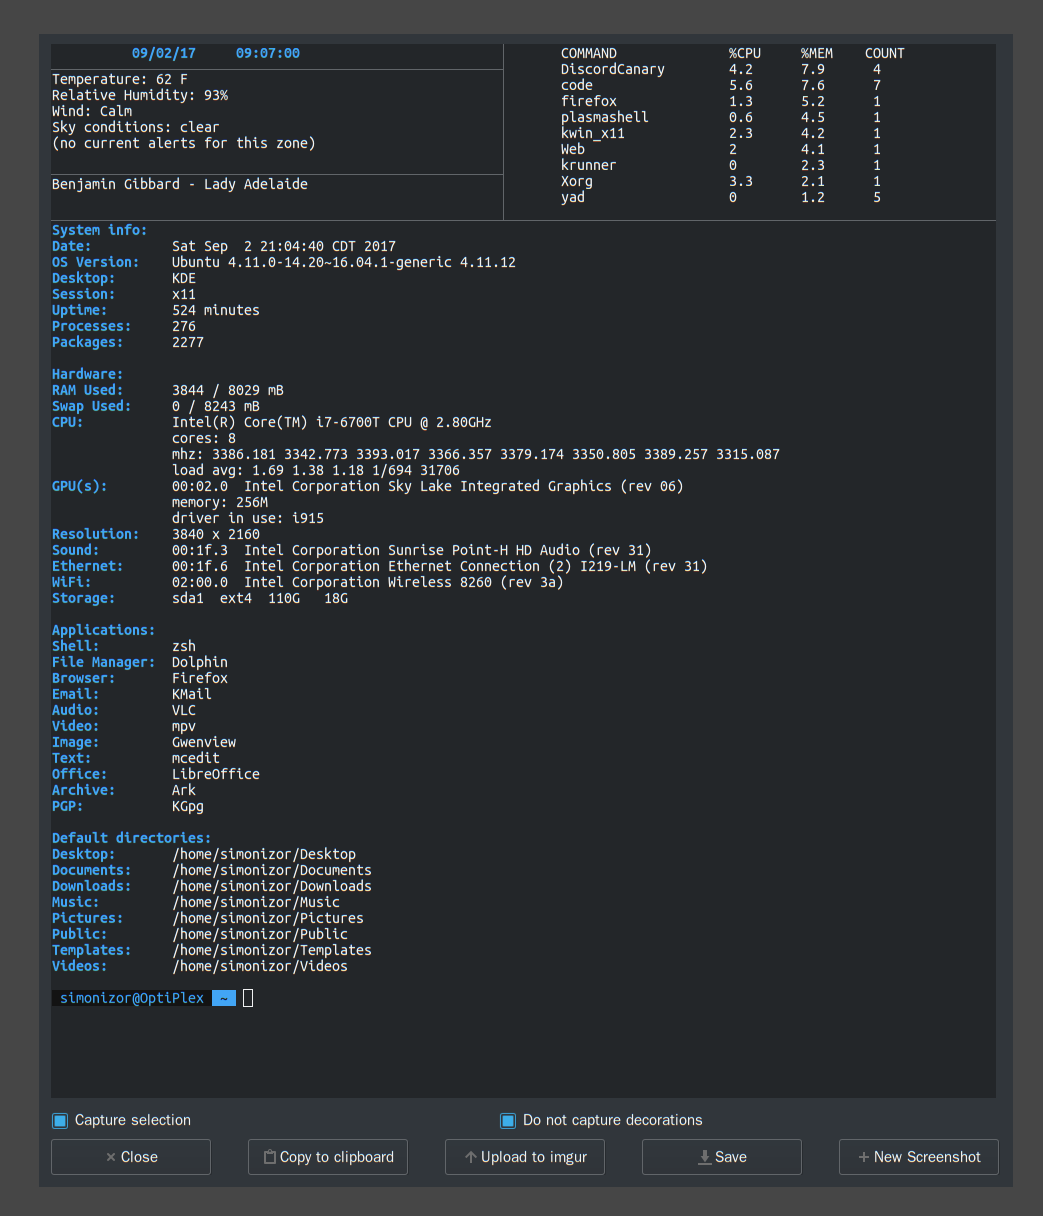
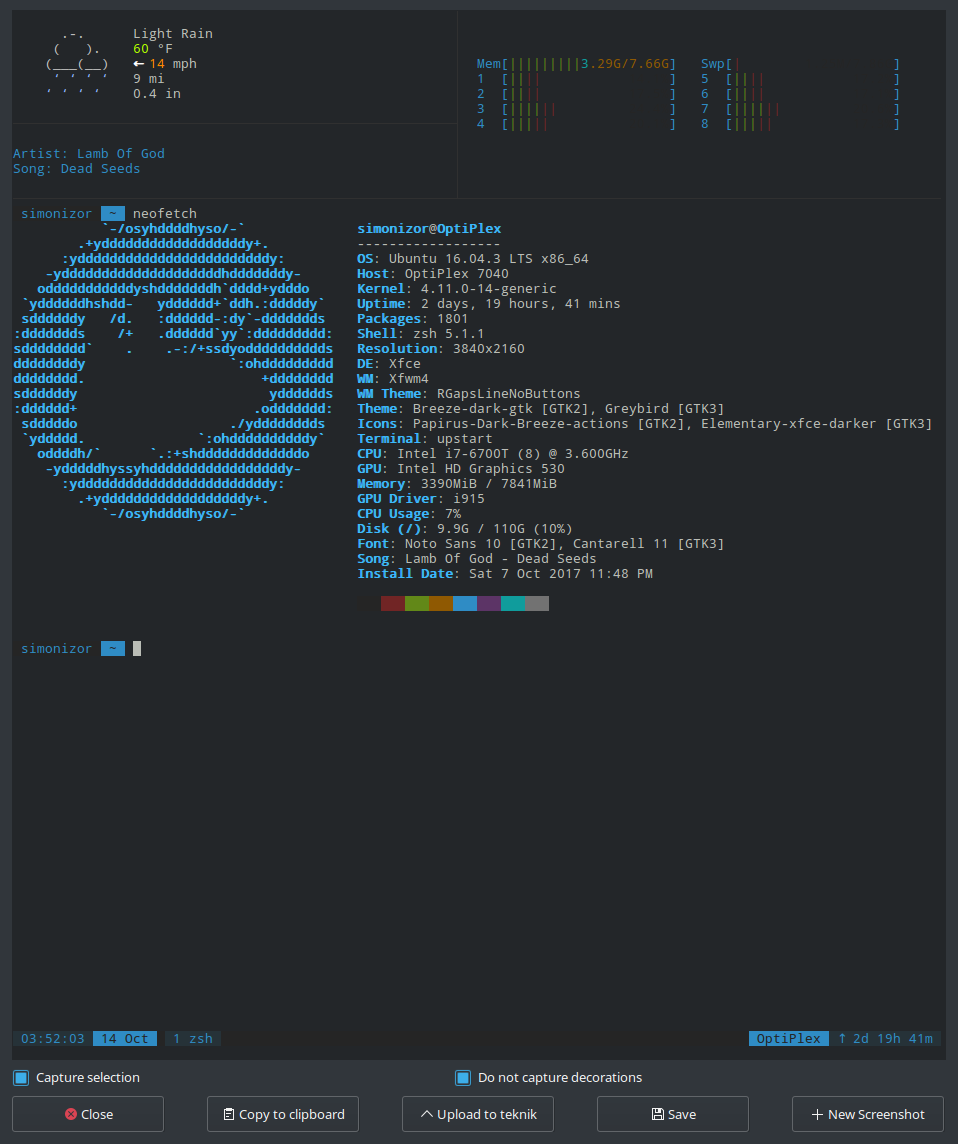
Update for new options

diff --git a/README.md b/README.md
@@ -2,6 +2,16 @@
 
 ![yadshot](/Screenshot.png)
 
-A bash script that uses yad to provide a GUI front end for maim/slop.  Images can be copied to clipboard, uploaded to imgur, or saved.
+yadshot uses [teknik.sh](https://git.teknik.io/Teknikode/Tools/src/master/Upload/teknik.sh) to upload files, images, and pastes to [teknik.io](https://teknik.io).  yadshot provides the vollowing options:
+
+yadshot : Opens a yad GUI with choices between uploading a file/image, a paste, or taking a screenshot.
+
+yadshot -c : Uses yad to provide a GUI front end for maim/slop.  Images can be copied to clipboard, uploaded to teknik, or saved.
+
+yadshot -p : Upload a paste from your clipboard to teknik.io.  Requires xclip and curl.
+
+yadshot -s : Upload a paste from your selection clipboard to teknik.io.  Requires xclip and curl.
+
+yadshot -t : Opens a system tray app that gives options between uploading a file/image, paste, or taking a screenshot.
 
 Dependencies: maim, slop, yad, xclip, curl, coreutils
